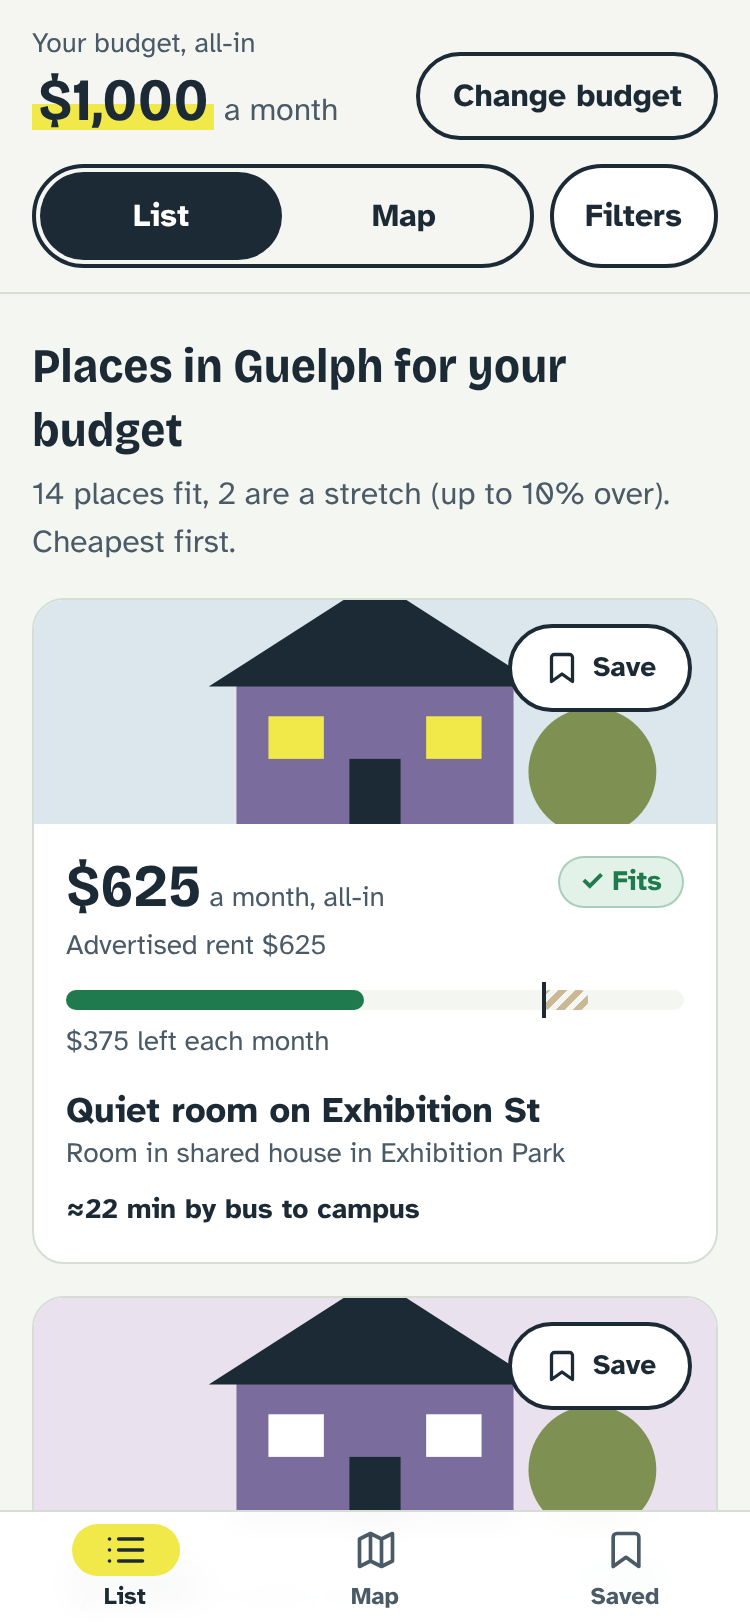
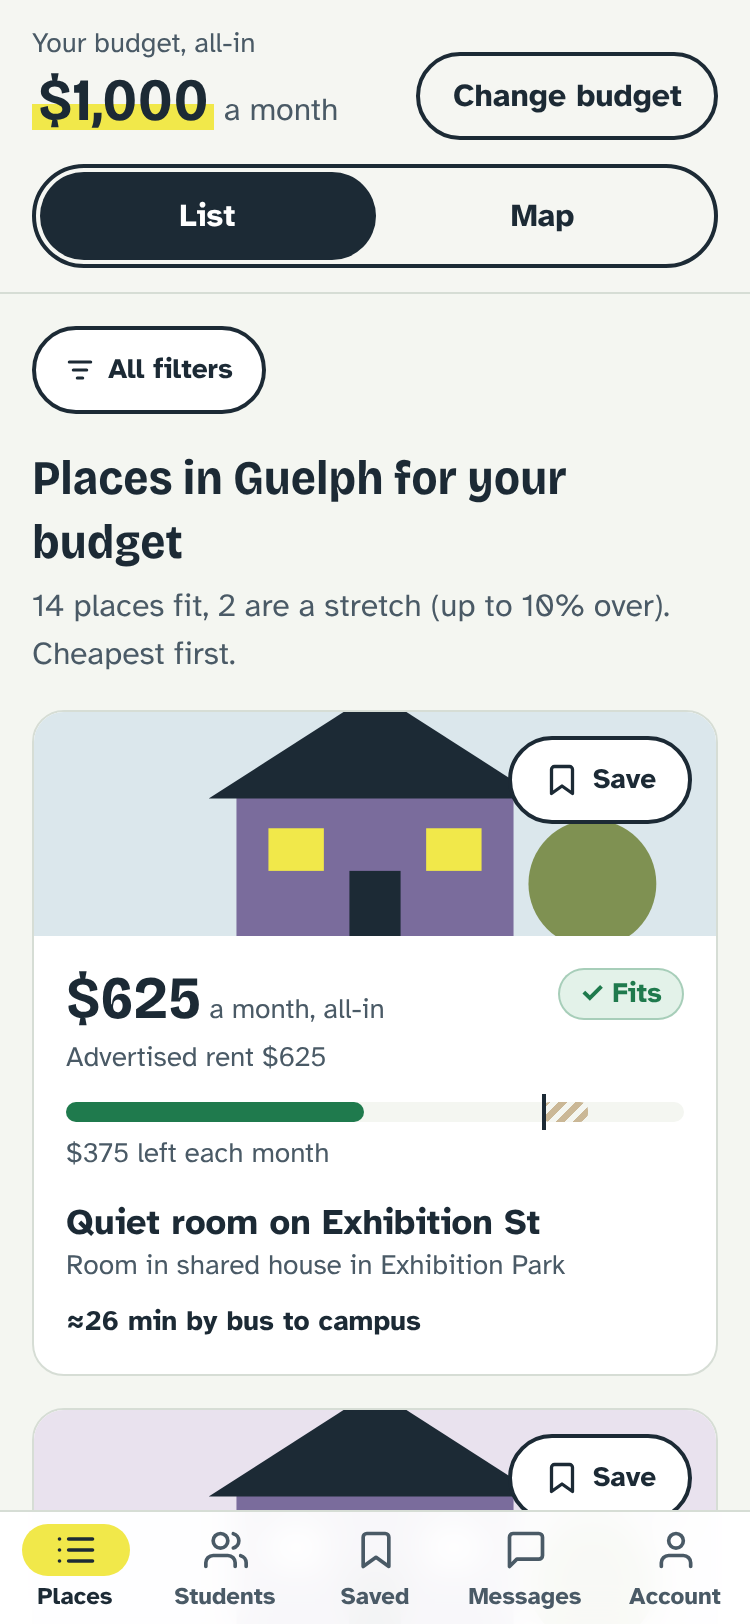
Retake the README screenshots and add profile and Students shots
Claude-Session: https://claude.ai/code/session_01G1XWpoHat3DHMGm9hDXHKo

diff --git a/README.md b/README.md
@@ -8,13 +8,17 @@ Version 1 is a portfolio piece and an idea test. Browsing needs no account. Sign
 
 | Budget | Results | Listing | Map | Compare |
 |---|---|---|---|---|
-| ![Welcome screen asking for a monthly budget](docs/screenshots/welcome.png) | ![Results with fit badges and budget meters](docs/screenshots/results.png) | ![Cost breakdown and walk-to-stop map](docs/screenshots/detail-map.png) | ![Map with price pins and bus routes](docs/screenshots/map.png) | ![Two saved places compared](docs/screenshots/compare.png) |
+| ![Welcome screen asking for a monthly budget](docs/screenshots/welcome.png) | ![Results with fit badges and budget meters](docs/screenshots/results.png) | ![Commute estimate with the walk to the stop and the bus route on a map](docs/screenshots/detail-map.png) | ![Map with price pins and bus routes](docs/screenshots/map.png) | ![Two saved places compared](docs/screenshots/compare.png) |
 
 | Posted by | Message the poster | Conversation |
 |---|---|---|
 | ![Posted by card with a Message button for a poster who keeps their number private](docs/screenshots/posted-by.png) | ![Message form with optional details to share](docs/screenshots/message-sheet.png) | ![A sent message showing exactly what was shared](docs/screenshots/conversation.png) |
 
-![Results on a laptop](docs/screenshots/laptop-results.png)
+| Set up your profile | Students | A student's profile |
+|---|---|---|
+| ![Optional profile form shown after sign-up, with photo, bio, program, year and move-in term](docs/screenshots/profile-setup.png) | ![Students tab listing a student who is looking for roommates](docs/screenshots/students.png) | ![A student's profile page with program, year, move-in term, budget and bio](docs/screenshots/student-profile.png) |
+
+![Results on a laptop: filters, listings and the map side by side](docs/screenshots/laptop-results.png)
 
 ## What it does
 

diff --git a/docs/superpowers/plans/2026-11-12-student-community-part1-followups.md b/docs/superpowers/plans/2026-11-12-student-community-part1-followups.md
@@ -28,7 +28,6 @@ Small items found in review and deliberately not fixed. None blocks merging.
 - (step 4) StudentProfile.test hard-codes 'user-2'
 - (step 4) offset paging skips a student when someone leaves the list between pages (needs keyset paging)
 - After deleting an account the app calls log-out for the deleted user and gets a 403 (visible only in the browser console).
-- Account → Your profile shows the photo twice (next to the heading and in the form).
-- README screenshots predate the new bottom bar, Students tab and real bus routes.
 - Bus routes: no test at exactly 151 m (uses 220 m); the data credit links to the Mobility Database page, not a City of Guelph licence page.
 - Part 2 (direct messages) must extend the photo read rule to students who share a conversation.
+- Listing mini-map: the "This place" label and the "≈N min walk" label overlap when the stop is close to the listing.
